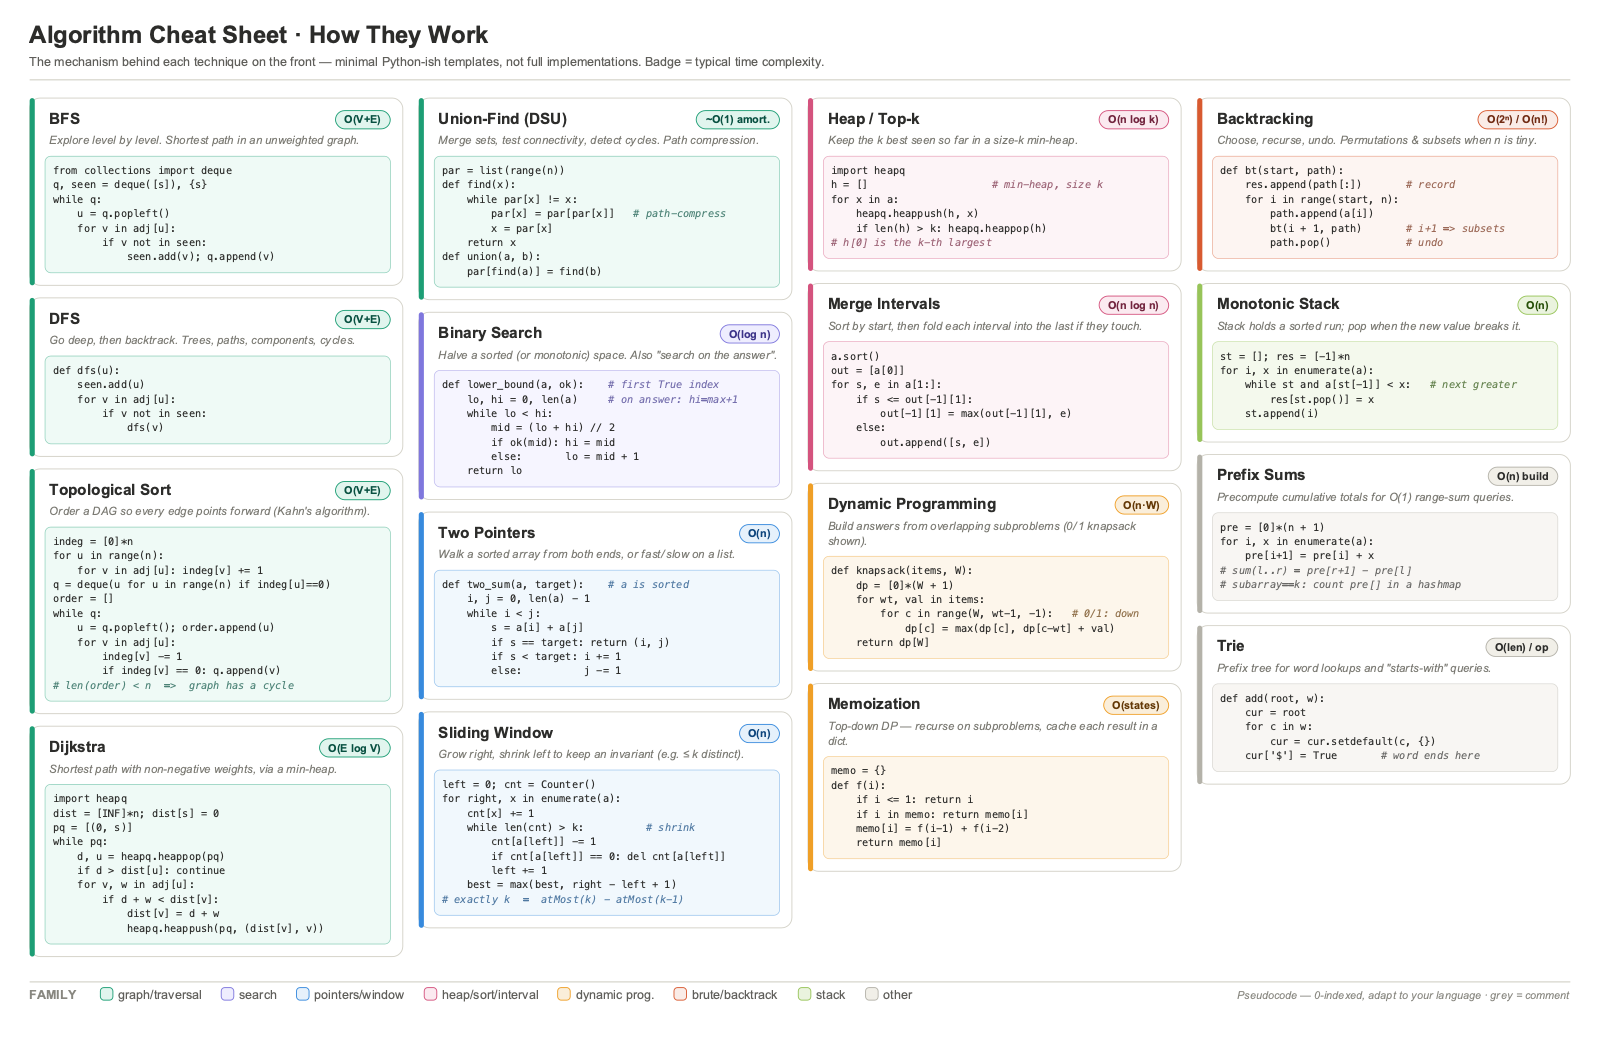
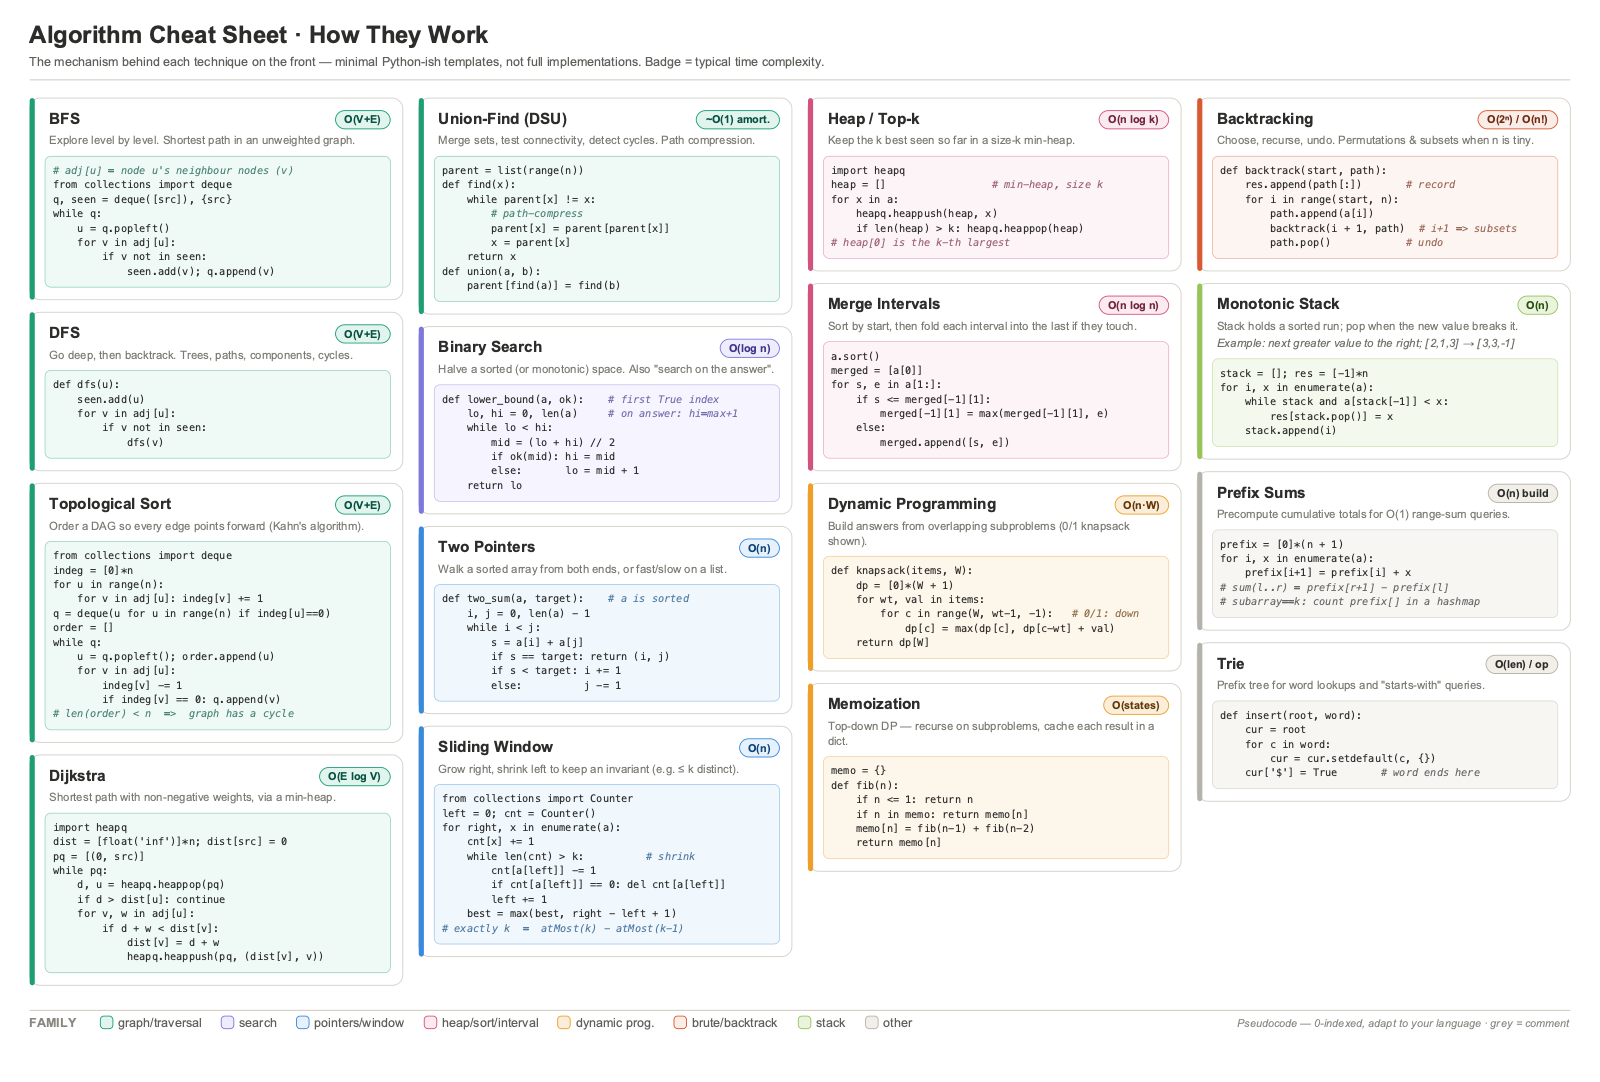
Refine back-page templates: runnable code, clearer names, and an example line

diff --git a/back.py b/back.py
@@ -81,8 +81,18 @@ def draw_card(card, ox, oy, emit, frag):
     for ln in wrap(card['idea'], IDEA_F, cw):
         if emit:
             frag.append(f'<text x="{inner_x:.1f}" y="{y+8:.1f}" font-size="{IDEA_F}" '
-                        f'fill="#7A7972" font-style="italic">{esc(ln)}</text>')
+                        f'fill="#7A7972">{esc(ln)}</text>')
         y += IDEA_LH
+
+    # optional concrete example, under the idea (italic)
+    ex = card.get('example')
+    if ex:
+        y += 2
+        for ln in wrap('Example: ' + ex, IDEA_F, cw):
+            if emit:
+                frag.append(f'<text x="{inner_x:.1f}" y="{y+8:.1f}" font-size="{IDEA_F}" '
+                            f'fill="#6E6D67" font-style="italic">{esc(ln)}</text>')
+            y += IDEA_LH
     y += 5
 
     # code strip